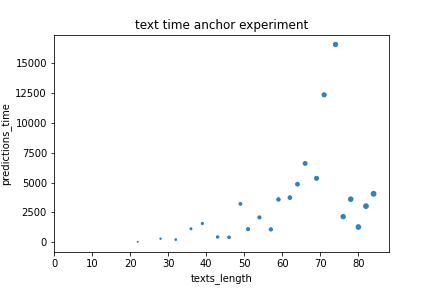
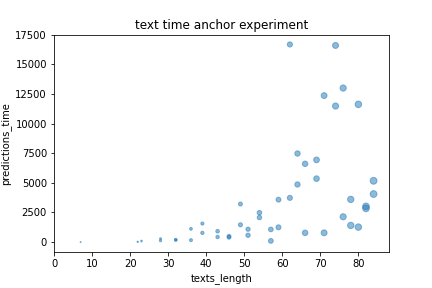
joined time experiments

diff --git a/time_experiment.py b/time_experiment.py
@@ -1,3 +1,9 @@
+#!/usr/bin/env python
+# coding: utf-8
+
+# In[1]:
+
+
 import os
 import os.path
 import numpy as np
@@ -15,6 +21,10 @@ import pickle
 import matplotlib.pyplot as plt
 import csv
 
+
+# In[2]:
+
+
 # dataset from http://www.cs.cornell.edu/people/pabo/movie-review-data/
 # Link: http://www.cs.cornell.edu/people/pabo/movie-review-data/rt-polaritydata.tar.gz
 def load_polarity(path='sentiment-sentences'):
@@ -31,7 +41,15 @@ def load_polarity(path='sentiment-sentences'):
             labels.append(l)
     return data, labels
 
+
+# In[3]:
+
+
 nlp = spacy.load('en_core_web_sm')
+
+
+# In[4]:
+
 
 data, labels = load_polarity()
 train, test, train_labels, test_labels = sklearn.model_selection.train_test_split(data, labels, test_size=.2, random_state=42)
@@ -40,11 +58,19 @@ train_labels = np.array(train_labels)
 test_labels = np.array(test_labels)
 val_labels = np.array(val_labels)
 
+
+# In[5]:
+
+
 vectorizer = CountVectorizer(min_df=1)
 vectorizer.fit(train)
 train_vectors = vectorizer.transform(train)
 test_vectors = vectorizer.transform(test)
 val_vectors = vectorizer.transform(val)
+
+
+# In[6]:
+
 
 c = sklearn.linear_model.LogisticRegression()
 # c = sklearn.ensemble.RandomForestClassifier(n_estimators=500, n_jobs=10)
@@ -54,15 +80,64 @@ print('Val accuracy', sklearn.metrics.accuracy_score(val_labels, preds))
 def predict_lr(texts):
     return c.predict(vectorizer.transform(texts))
 
+
+# In[7]:
+
+
 explainer = anchor_text.AnchorText(nlp, ['negative', 'positive'], use_unk_distribution=False)
+
+
+# In[8]:
+
 
 train.sort(key=lambda example: len(example))
 
-with open("times2.csv", "w") as time_file:
+
+# In[14]:
+
+
+with open("times.csv", "w") as time_file:
     writer = csv.writer(time_file)
-    for i in range(1, len(train), 100):
+    for i in range(0, len(train), 100):
         print(i)
         b = time.time()
         exp = explainer.explain_instance(train[i], predict_lr, threshold=0.95, verbose=False)
-        writer.writerow([time.time() - b])
+        writer.writerow(i, len(train[i]), time.time() - b)
         time_file.flush()
+
+
+# In[58]:
+
+
+with open('times.csv', newline='') as f:
+    reader = csv.reader(f)
+    rows = list(reader)
+indices = [row[0] for row in rows if len(row)>0]
+texts_length = [int(row[1]) for row in rows if len(row)>0]
+predictions_time = [float(row[2]) for row in rows if len(row)>0]
+
+
+# In[59]:
+
+
+plt.scatter(texts_length, predictions_time, s = range(len(predictions_time)), alpha = 0.5)
+plt.xlabel('texts_length')
+plt.ylabel('predictions_time')
+plt.title('text time anchor experiment')
+plt.savefig("results/time.png")
+
+
+# In[60]:
+
+
+img = plt.imread("results/time.png")
+plt.figure(figsize = (10,10))
+plt.axis('off')
+_ = plt.imshow(img)
+
+
+# In[ ]:
+
+
+
+
